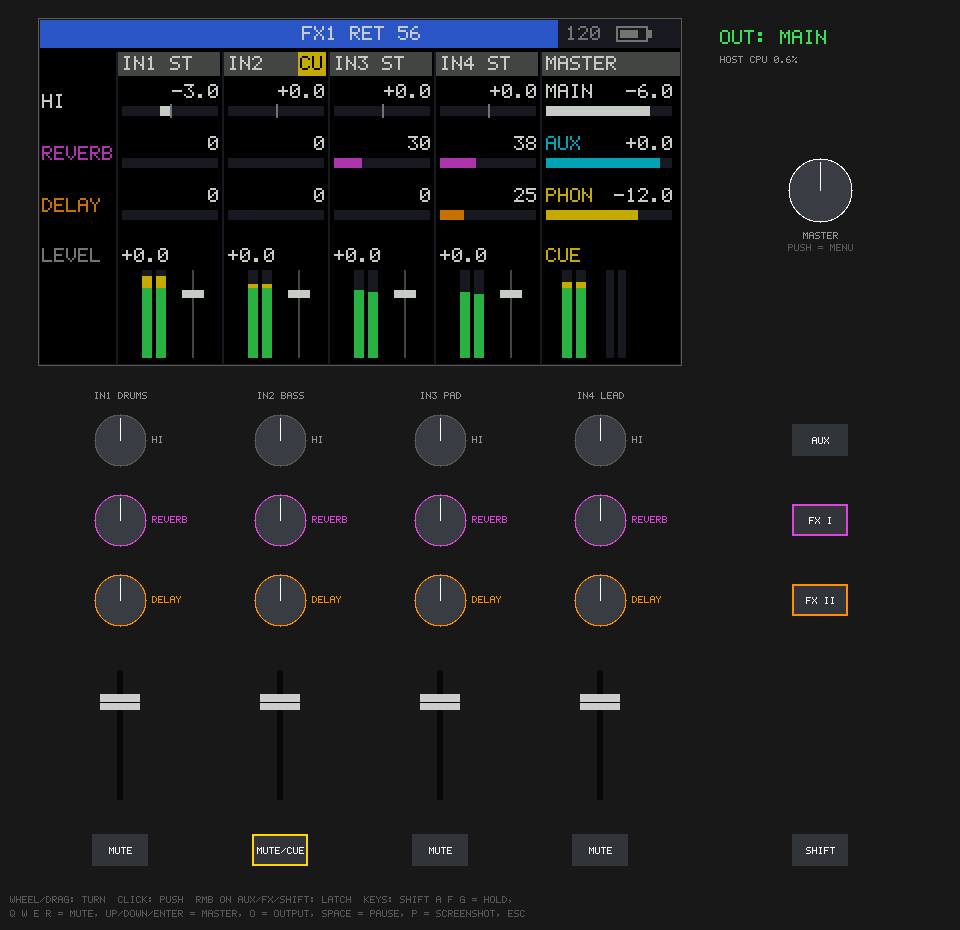
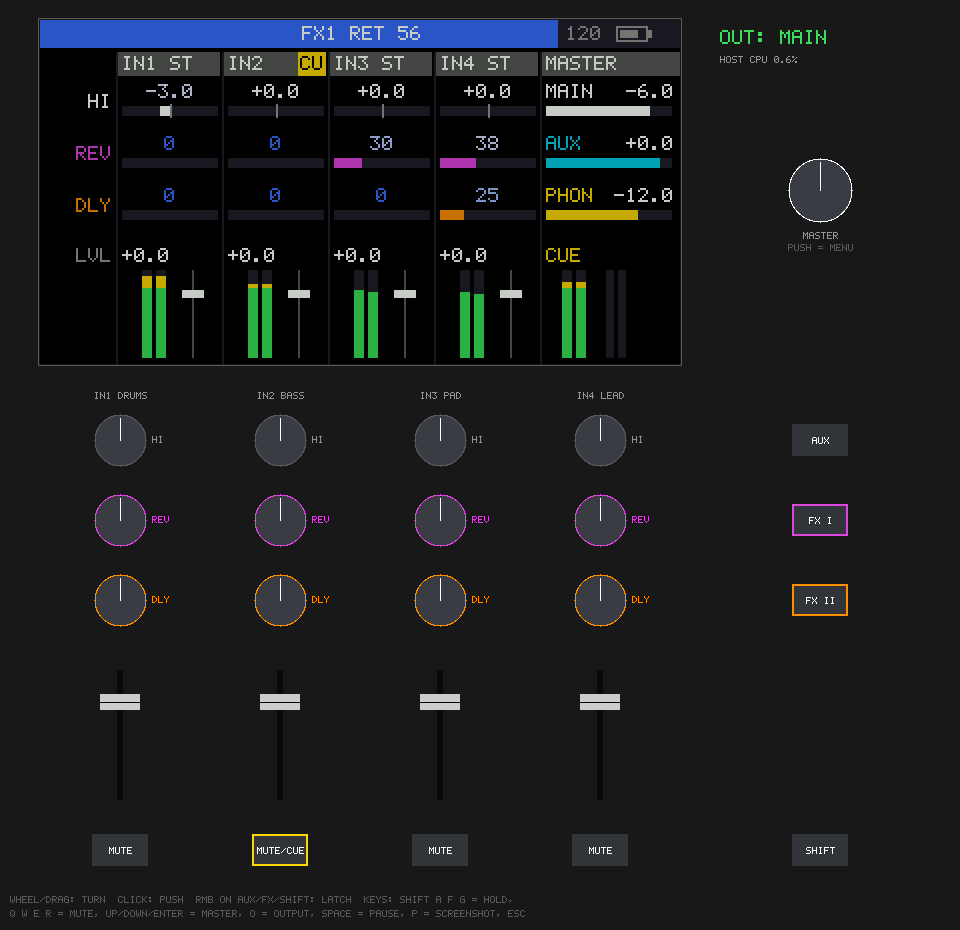
digital-mixer: екран - LVL, підписи праворуч, значення по центру з градієнтом синій-білий-червоний, ефекти трьома літерами

diff --git a/digital-mixer/firmware/src/core/ui.cpp b/digital-mixer/firmware/src/core/ui.cpp
@@ -19,6 +19,16 @@ enum MenuId {
 };
 static const int MENU_ROWS = 8;
 
+// value colour by position: blue at the minimum, white in the middle, red at the maximum
+static uint16_t valueColor(float n) {
+    n = clampf(n, 0, 1);
+    const float lo[3] = {60, 110, 255}, mid[3] = {255, 255, 255}, hi[3] = {240, 50, 40};
+    const float* a = n < 0.5f ? lo : mid;
+    const float* b = n < 0.5f ? mid : hi;
+    float t = n < 0.5f ? n * 2 : (n - 0.5f) * 2;
+    return rgb((uint8_t)(a[0] + (b[0] - a[0]) * t), (uint8_t)(a[1] + (b[1] - a[1]) * t), (uint8_t)(a[2] + (b[2] - a[2]) * t));
+}
+
 static uint16_t paramColor(int id) {
     switch (id) {
         case P_SEND_AUX: return col::CYAN;
@@ -55,8 +65,11 @@ void Ui::begin() {
 }
 
 // FX send rows are labelled with the engine of their bus (REVERB, DELAY ...), the rest by the parameter
-const char* Ui::rowLabel(int id) const {
-    if (id == P_SEND_FX1 || id == P_SEND_FX2) return fxName((FxType)scene_->fx[id == P_SEND_FX2].type);
+const char* Ui::rowLabel(int id, bool full) const {
+    if (id == P_SEND_FX1 || id == P_SEND_FX2) {
+        FxType t = (FxType)scene_->fx[id == P_SEND_FX2].type;
+        return full ? fxName(t) : fxShortName(t);
+    }
     return paramDesc(id).name;
 }
 
@@ -611,9 +624,9 @@ void Ui::drawLabels(Canvas& c) {
         int id = rowParam(0, r);
         bool same = true;
         for (int ch = 1; ch < NCH; ch++) same &= rowParam(ch, r) == id;
-        c.text(1, ROW_Y0 + r * ROW_DY + 5, same ? rowLabel(id) : "F/C", paramColor(id));
+        c.textRight(LABEL_W - 4, ROW_Y0 + r * ROW_DY + 5, same ? rowLabel(id) : "F/C", paramColor(id));
     }
-    c.text(1, LVL_Y + 2, "LEVEL", col::DIM);
+    c.textRight(LABEL_W - 4, LVL_Y + 2, "LVL", col::DIM);
     c.vline(LABEL_W - 1, 16, DISPLAY_H - 16, col::DARK);
 }
 
@@ -632,9 +645,10 @@ void Ui::drawStrip(Canvas& c, int ch, int x) {
         float v = paramGet(s, *live_, ch, id);
         uint16_t colr = paramColor(id);
         paramFormat(id, v, buf, sizeof buf);
-        c.textRight(x + w - 1, y0, buf, col::WHITE);
+        float n = paramNorm(id, v);
+        c.textCentered(x + w / 2, y0, buf, valueColor(n));
         int k = paramDesc(id).kind;
-        drawBar(c, x + 2, y0 + 11, w - 3, 5, paramNorm(id, v), k == K_DB || k == K_BIPOLAR, colr);
+        drawBar(c, x + 2, y0 + 11, w - 3, 5, n, k == K_DB || k == K_BIPOLAR, colr);
     }
     // level block: fader level (and compressor gain reduction) on top, meters and fader below
     float pos = live_->fader[ch];
@@ -687,8 +701,8 @@ void Ui::drawMaster(Canvas& c, int x) {
 void Ui::drawHome(Canvas& c) {
     char title[48];
     if (shiftOn()) snprintf(title, sizeof title, shiftLatched_ ? "SHIFT ON: GAIN PAN FILT/COMP" : "SHIFT: GAIN PAN FILT/COMP");
-    else snprintf(title, sizeof title, "%s %s %s", auxLayer_ ? "AUX" : "HI", fxLayer_[0] ? rowLabel(P_SEND_FX1) : "MID",
-                  fxLayer_[1] ? rowLabel(P_SEND_FX2) : "LO");
+    else snprintf(title, sizeof title, "%s %s %s", auxLayer_ ? "AUX" : "HI", fxLayer_[0] ? rowLabel(P_SEND_FX1, true) : "MID",
+                  fxLayer_[1] ? rowLabel(P_SEND_FX2, true) : "LO");
     c.clear(col::BLACK);
     drawTop(c, title, shiftOn() ? col::YELLOW : col::WHITE);
     drawLabels(c);

diff --git a/digital-mixer/firmware/src/core/params.cpp b/digital-mixer/firmware/src/core/params.cpp
@@ -18,7 +18,10 @@ static const char* const FX_PARAMS[][3] = {
     {"LEN", "HOLD", "SPEED"},     // freeze
 };
 
+static const char* const FX_SHORT[] = {"REV", "DLY", "CHO", "FLT", "DST", "TAP", "FRZ"};
+
 const char* fxName(FxType t) { return FX_NAMES[(int)t % (int)FxType::Count]; }
+const char* fxShortName(FxType t) { return FX_SHORT[(int)t % (int)FxType::Count]; }
 const char* fxParamName(FxType t, int i) { return FX_PARAMS[(int)t % (int)FxType::Count][i % 3]; }
 
 // MIDI CC: channel params on MIDI channel (base + ch), TX-6 numbers where 00-research p. 9 lists

diff --git a/digital-mixer/firmware/src/core/ui.h b/digital-mixer/firmware/src/core/ui.h
@@ -39,7 +39,7 @@ public:
     bool held(int b) const { return down_[b]; }
     bool shiftOn() const { return down_[B_SHIFT] || shiftLatched_; }
     int rowParam(int ch, int row) const;
-    const char* rowLabel(int id) const;   // FX sends: engine name of the bus
+    const char* rowLabel(int id, bool full = false) const;   // FX sends: engine of the bus (3 letters / full)
 
 private:
     enum Page : uint8_t { HOME, MENU, TUNER, FADER_CAL };

diff --git a/digital-mixer/firmware/src/core/params.h b/digital-mixer/firmware/src/core/params.h
@@ -11,6 +11,7 @@ constexpr int NSCENES = 8;      // 01-spec 3.6
 
 enum class FxType : uint8_t { Reverb, Delay, Chorus, Filter, Dist, Tape, Freeze, Count };
 const char* fxName(FxType t);
+const char* fxShortName(FxType t);      // 3 letters for the row labels
 const char* fxParamName(FxType t, int i);
 
 enum class PhonesSrc : uint8_t { Auto, Main, Cue, Count };
